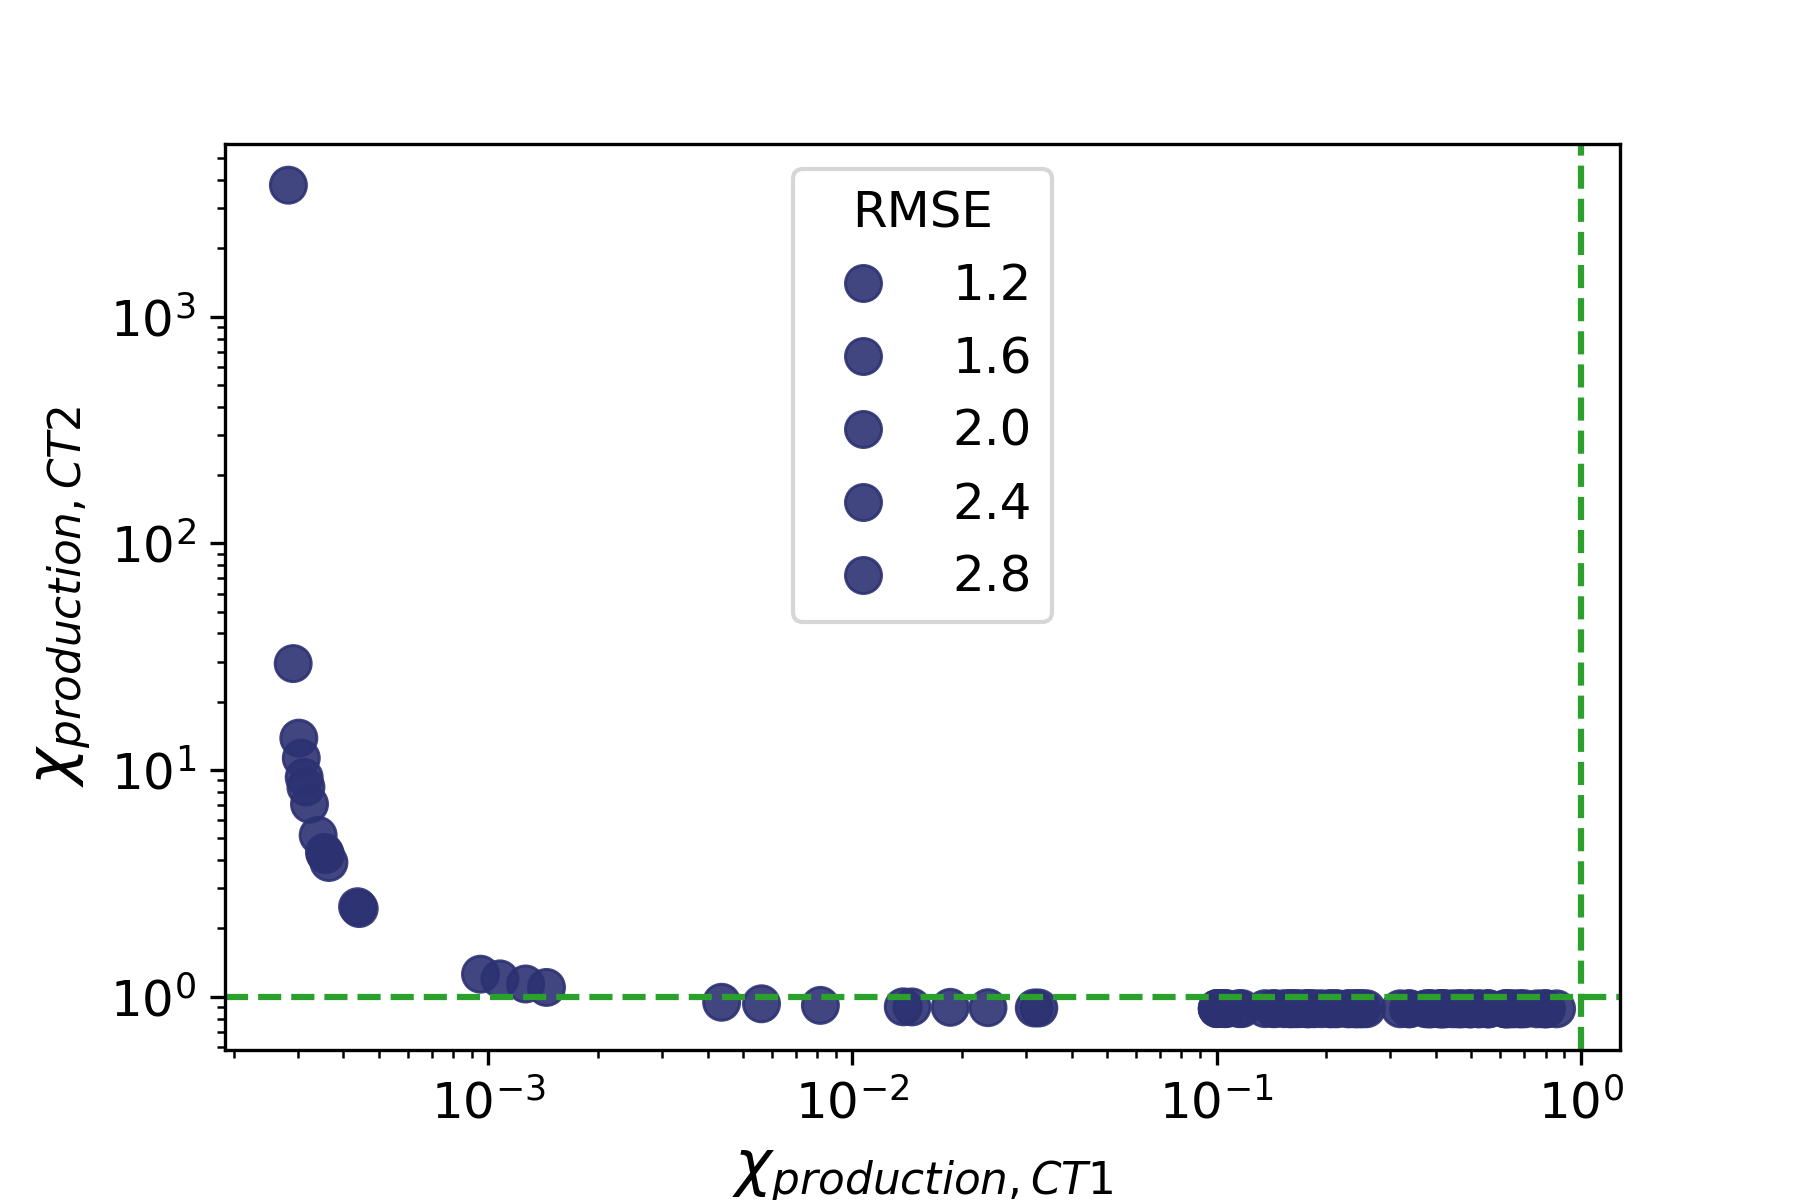
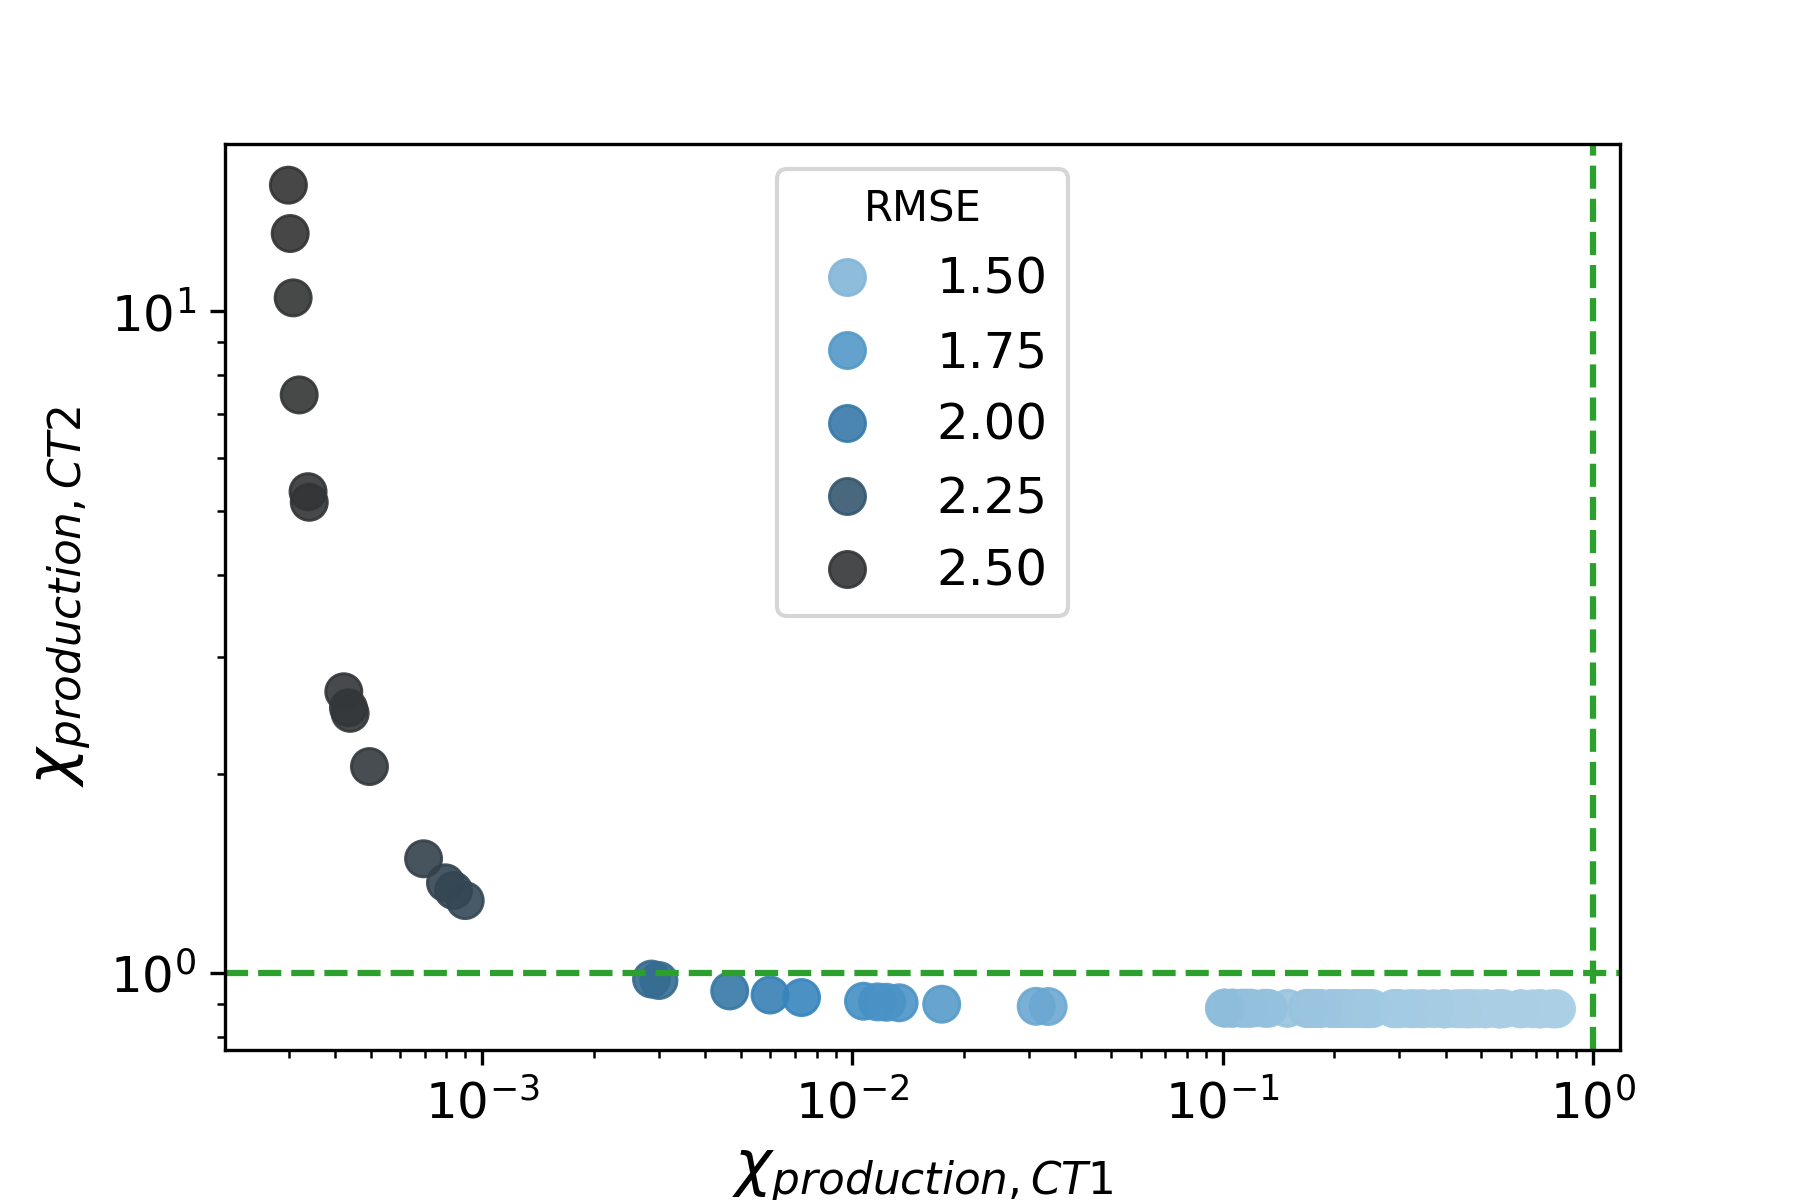
Figure plan changed post 16 Mar

diff --git a/codes/figure-plan.py b/codes/figure-plan.py
@@ -54,15 +54,15 @@ max_links = int(len(x_ori_list[0].flatten())/2)
 # %%
 ##### Figures in slides 3-6 of network-figure-plan.pptx
 fig = plt.figure(figsize=(17, 10))
-gs = GridSpec(2, 3, figure=fig)
+gs = GridSpec(1, 3, figure=fig)
 gs01 = GridSpecFromSubplotSpec(2, 1, subplot_spec=gs[:, :2])
 gs02 = GridSpecFromSubplotSpec(2, 1, subplot_spec=gs[:, 2])
 
 ax_left = gs01.subplots(sharex=True)
 ax1 = ax_left[0]#fig.add_subplot(ax_left[0])
-ax2 = ax_left[1]#fig.add_subplot(ax_left[1])
+# ax2 = ax_left[1]#fig.add_subplot(ax_left[1])
 ax3 = fig.add_subplot(gs02[0])
-ax4 = fig.add_subplot(gs02[1])
+# ax4 = fig.add_subplot(gs02[1])
 
 #### A quick glance of where sims have begun and ended
 hue_vector = np.arange(len(n_pred_list))
@@ -74,32 +74,32 @@ ax1.set_title("%d replicate runs" % n_reps)
 ax1.spines.top.set_visible(False)
 ax1.spines.right.set_visible(False)
 
-#### Are more non-trivial predictions made on average during optimisation?
-for i in range(n_reps):
-    sns.lineplot(n_pred_list[i], ax=ax2, linewidth=2.5)
-ax2.set_xlabel("Add/remove steps")
-ax2.set_ylabel("# metabolites predicted")
-# ax2.spines.top.set_visible(False)
-# ax2.spines.right.set_visible(False)
-
-
-# #### How many steps of add/remove on average
-# sim_length = np.zeros(n_reps)
+# #### Are more non-trivial predictions made on average during optimisation?
 # for i in range(n_reps):
-#     sim_length[i] = len(error_plot_list[i])
-# sns.histplot(sim_length, fill=True, element='step', 
-#              stat='proportion', alpha=0.25, bins=10, kde=True, ax=ax3)
-# ax3.set_xlabel('# add/remove steps')
-# # ax3.spines.top.set_visible(False)
-# # ax3.spines.right.set_visible(False)
-# # ax3.spines.left.set_visible(False)
-# # ax3.set_title("Step number distribution")
+#     sns.lineplot(n_pred_list[i], ax=ax2, linewidth=2.5)
+# ax2.set_xlabel("Add/remove steps")
+# ax2.set_ylabel("# metabolites predicted")
+# # ax2.spines.top.set_visible(False)
+# # ax2.spines.right.set_visible(False)
+
+
+# # #### How many steps of add/remove on average
+# # sim_length = np.zeros(n_reps)
+# # for i in range(n_reps):
+# #     sim_length[i] = len(error_plot_list[i])
+# # sns.histplot(sim_length, fill=True, element='step', 
+# #              stat='proportion', alpha=0.25, bins=10, kde=True, ax=ax3)
+# # ax3.set_xlabel('# add/remove steps')
+# # # ax3.spines.top.set_visible(False)
+# # # ax3.spines.right.set_visible(False)
+# # # ax3.spines.left.set_visible(False)
+# # # ax3.set_title("Step number distribution")
 
 #### More non-trivially predicted metabolites means more error?
 num_pred = np.array([arr[-1] for arr in n_pred_list])
 final_error = np.array([arr[-1] for arr in log_bias_list])
 sns.regplot(x=num_pred, y=final_error, color='k', ax = ax3,
-            line_kws={'color': 'r', 'linewidth': 2}, scatter_kws={'s': 10})
+            line_kws={'color': 'r', 'linewidth': 2}, scatter_kws={'s': 25})
 rho, pval = spearmanr(num_pred, final_error)
 ax3.text(0.3, 0.05, f'Spearman\'s $\\rho$ = {rho:.2f}', transform=ax3.transAxes) #, p-value = {pval:.2f}
 # ax[1, 0].scatter(initial_error, final_error, c='k', s=5)
@@ -110,20 +110,20 @@ ax3.spines.right.set_visible(False)
 ax3.spines.left.set_bounds(final_error.min(), final_error.max())
 ax3.spines.bottom.set_bounds(num_pred.min(), num_pred.max())
 
-#### Normalised residual production fraction-how does balance change during optimisation?
-log_residual_list = [np.log10(np.array(arr) + 1e-5) for arr in residual_list]
-for i in range(n_reps):
-    sns.lineplot(residual_list[i], ax=ax4, linewidth=2.5)
-ax4.set_yscale('log')
-# ax4.fill_between(x=ax4.get_xlim(), y1=0, y2=-1,
-#                  alpha=0.4, color='tab:green', lw=2, ls='--')
-ax4.set_ylabel(r"$log_{10} \chi_{excess}$")
-ax4.set_xlabel('Add/remove steps')
+# #### Normalised residual production fraction-how does balance change during optimisation?
+# log_residual_list = [np.log10(np.array(arr) + 1e-5) for arr in residual_list]
+# for i in range(n_reps):
+#     sns.lineplot(residual_list[i], ax=ax4, linewidth=2.5)
+# ax4.set_yscale('log')
+# # ax4.fill_between(x=ax4.get_xlim(), y1=0, y2=-1,
+# #                  alpha=0.4, color='tab:green', lw=2, ls='--')
+# ax4.set_ylabel(r"$log_{10} \chi_{excess}$")
+# ax4.set_xlabel('Add/remove steps')
 
 fig.suptitle('Reward = '+str(reward)+'; Penalty = '+str(penalty))
 # fig.tight_layout()
 
-figsave_flag = False
+figsave_flag = True
 fig_path = '../figures/2-celltypes/optim-net/A549-ATCC'
 if figsave_flag:
     try:
@@ -188,7 +188,7 @@ ax[1].text(0.05, 0.8, r'$\chi_{excess}=$'+f'{final_residual[i_best_net][0].round
 fig.supxlabel(r'$log_{10}\ Predicted\ metabolome$')
 fig.tight_layout(pad=0.2)
 
-figsave_flag=False
+figsave_flag = True
 if figsave_flag:
     fig.savefig(fig_path+'/reward-'+str(reward)+'-penalty'+str(penalty)+'prediction-comparison.png', dpi=300)
     plt.close(fig)

diff --git a/codes/cancer-all-network-models.py b/codes/cancer-all-network-models.py
@@ -405,7 +405,7 @@ def pred_error_addingLinks(n_pred_init, residual_init, x, net_ori, f, col_name, 
 
     penalty_param = pred_params['penalty']
     reward_param = pred_params['reward']
-    pred_errorTotal = mean_error - np.where(n_pred_new > n_pred_init, reward_param, -penalty_param) + np.where(residual_new != 0, penalty_param * np.log10(residual_new), 0) #np.where(residual_init > residual_new, penalty_param, -reward_param) #- (inter_diff*reward_param) + (non_inter_diff*penalty_param)
+    pred_errorTotal = mean_error - np.where(n_pred_new > n_pred_init, reward_param, -penalty_param) #+ np.where(residual_new != 0, penalty_param * np.log10(residual_new), 0) #np.where(residual_init > residual_new, penalty_param, -reward_param) #- (inter_diff*reward_param) + (non_inter_diff*penalty_param)
     # + (penalty_param * n_non_inter) - (reward_param * n_inter)
     
     return [pred_errorTotal, metabolome_pred, metabolome_measured, i_final, bias_metabolome, mean_error, mean_error_combined, n_pred_new, residual_new]
@@ -1172,7 +1172,7 @@ for n_ct in tqdm(range(2, 3), desc='n_ct'):
 # %%
 ##### Visualising output
 net_state = 'optim-net/'
-figsave_flag = False
+figsave_flag = True
 fig_path = '../figures/2-celltypes/'+net_state+cl
 try:
     os.makedirs(fig_path)
@@ -1219,7 +1219,8 @@ sns.scatterplot(data=df, x='N_CT', y='RMSE',
                 edgecolor='face', alpha=0.9, ax=ax2)
 ax2.set_xlabel(r'$N_{CT}$')
 ax2.set(xlim=(0.5, 2.5), xticks=[1, 2])
-# ax2.get_legend().remove()
+
+ax2.get_legend().remove()
 
 #### More non-trivially predicted metabolites means more error?
 num_pred = np.array([arr[-1] for arr in n_pred_list])

diff --git a/codes/cancer-no-learning-networks.py b/codes/cancer-no-learning-networks.py
@@ -531,7 +531,7 @@ pickle_out.close()
 
 # %%
 net_state = 'no-learn-balanced-net/'
-figsave_flag = False
+figsave_flag = True
 fig_path = '../figures/2-celltypes/'+net_state+ec_metabolome.columns[0]
 try:
     os.makedirs(fig_path)
